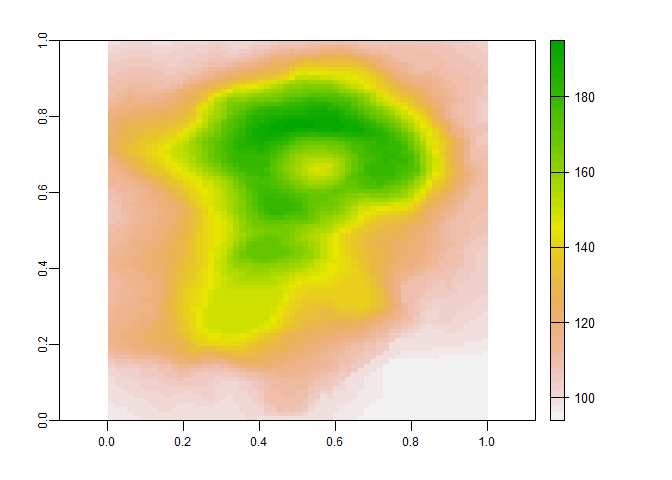
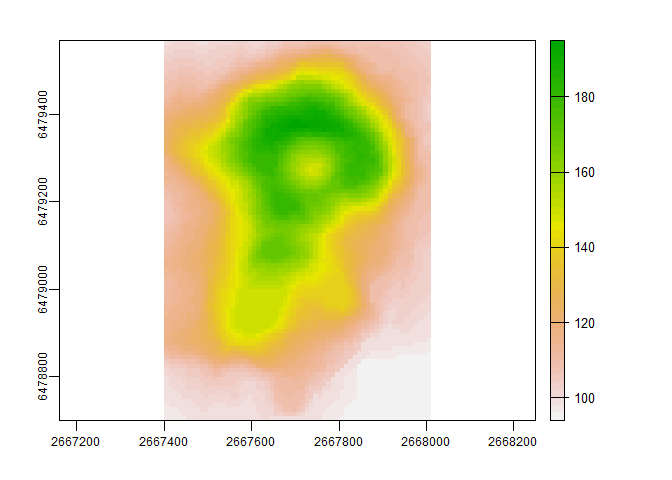
Add crs to ReadME - default lat/lon -180 to + 180 focal values connect on opposite sides of the raster image

diff --git a/README.md b/README.md
@@ -1,7 +1,7 @@
 README
 ================
 Alexander Ilich
-December 12, 2021
+December 17, 2021
 
 [![DOI](https://zenodo.org/badge/299630902.svg)](https://zenodo.org/badge/latestdoi/299630902)
 
@@ -251,7 +251,7 @@ Now we can move from calculating a single value of a given texture
 metric to calculating raster surfaces of texture metrics.
 
 ``` r
-r<- rast(volcano) #Use preloaded volcano dataset as a raster
+r<- rast(volcano, extent= ext(2667400, 2667400 + ncol(volcano)*10, 6478700, 6478700 + nrow(volcano)*10), crs = "EPSG:27200") #Use preloaded volcano dataset as a raster
 plot(r) #plot values
 ```
 
@@ -281,7 +281,7 @@ quantization method suggested in the original paper (Haralick and
 Shanmugam 1973).
 
 ``` r
-rq_equalprob<- quantize_raster(r = r, n_levels = 16, method = "equal prob")
+rq_equalprob<- quantize_raster2(r = r, n_levels = 16, method = "equal prob")
 plot(rq_equalprob, col=grey.colors(16))
 ```
 
@@ -326,7 +326,7 @@ consistent way to the original data, as you can supply the global
 max/min or the theoretical max/min values that could occur.
 
 ``` r
-rq_equalrange<- quantize_raster(r = r, n_levels = 16, method = "equal range")
+rq_equalrange<- quantize_raster2(r = r, n_levels = 16, method = "equal range")
 plot(rq_equalrange, col=grey.colors(16))
 ```
 
@@ -351,7 +351,7 @@ For example, below we calculate textures using a window size of 3 rows
 by 5 columns
 
 ``` r
-textures1<- glcm_textures(rq_equalprob, w = c(3,5), n_levels = 16, quantization = "none", shift = c(1,0)) 
+textures1<- glcm_textures2(rq_equalprob, w = c(3,5), n_levels = 16, quantization = "none", shift = c(1,0)) 
 plot(textures1)
 ```
 
@@ -364,7 +364,7 @@ We could instead call the original raster and have it quantized within
 the glcm\_textures function
 
 ``` r
-textures2<- glcm_textures(r, w = c(3,5), n_levels = 16, quantization = "equal prob", shift=c(1,0)) 
+textures2<- glcm_textures2(r, w = c(3,5), n_levels = 16, quantization = "equal prob", shift=c(1,0)) 
 all.equal(values(textures1), values(textures2))
 ```
 
@@ -376,7 +376,7 @@ directionally/rotationally invariant textures that are averaged across
 all 4 directions `shift = list(c(1, 0), c(1, 1), c(0, 1), c(-1, 1))`.
 
 ``` r
-textures3<- glcm_textures(r, w = c(3,5), n_levels = 16, quantization = "equal prob", shift = list(c(1, 0), c(1, 1), c(0, 1), c(-1, 1))) 
+textures3<- glcm_textures2(r, w = c(3,5), n_levels = 16, quantization = "equal prob", shift = list(c(1, 0), c(1, 1), c(0, 1), c(-1, 1))) 
 plot(textures3)
 ```
 
